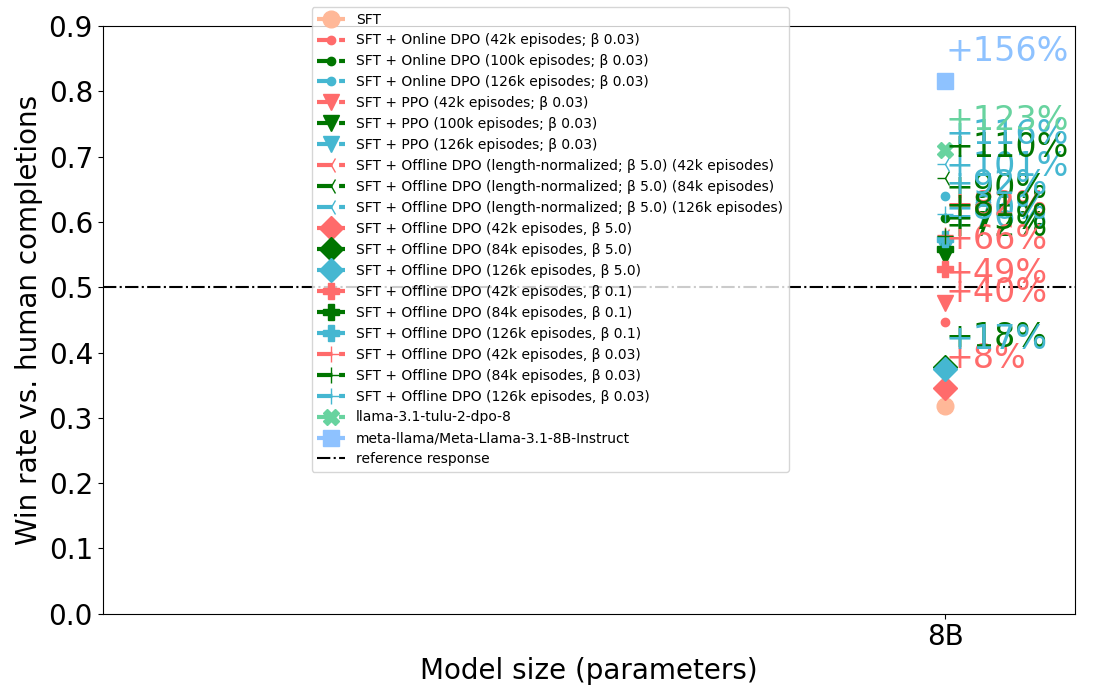
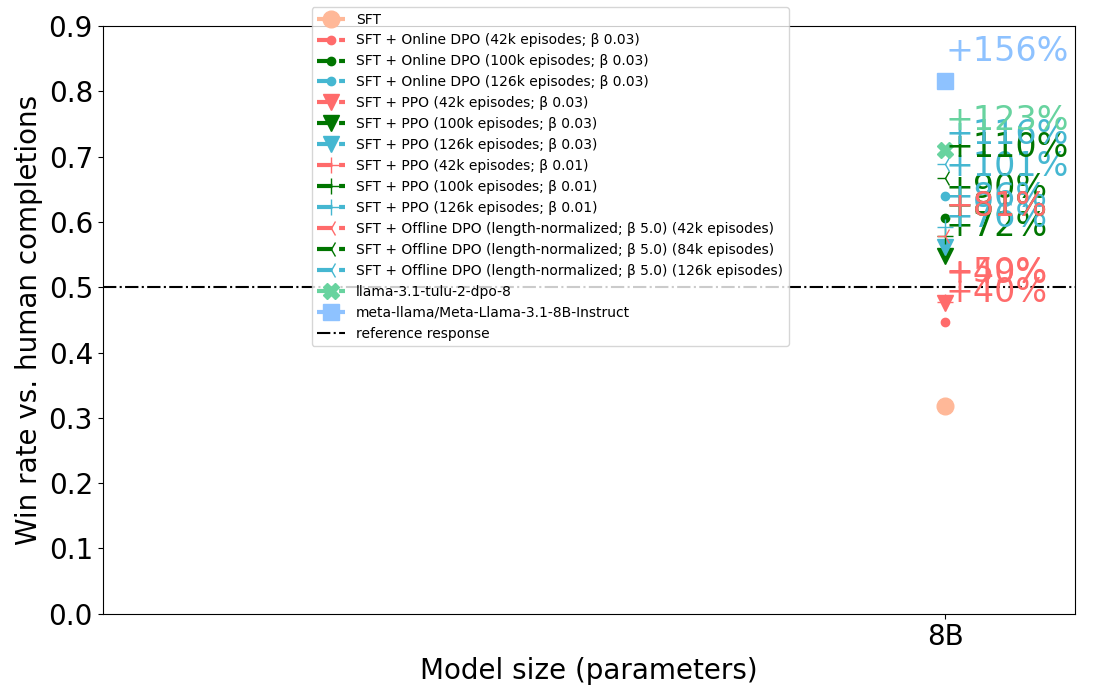
push changes

Changed region(s): [[0.2782, 0.21, 0.7109, 0.66], [0.8345, 0.24, 0.9582, 0.39], [0.8345, 0.45, 0.9582, 0.57]]

diff --git a/scripts/experimental/winrate/plot_winrate.py b/scripts/experimental/winrate/plot_winrate.py
@@ -20,18 +20,21 @@ results = {
     "SFT + PPO (42k episodes; β 0.03)": Data({8e9: [0.476, 222.886]}, "#FF6B6B", "v"),
     "SFT + PPO (100k episodes; β 0.03)": Data({8e9: [0.548, 233.058]}, "#007500", "v"),
     "SFT + PPO (126k episodes; β 0.03)": Data({8e9: [0.562, 226.956]}, "#45B7D1", "v"),
+    "SFT + PPO (42k episodes; β 0.01)": Data({8e9: [0.478, 264.274]}, "#FF6B6B", "+"),
+    "SFT + PPO (100k episodes; β 0.01)": Data({8e9: [ 0.578, 262.338]}, "#007500", "+"),
+    "SFT + PPO (126k episodes; β 0.01)": Data({8e9: [0.592, 264.802]}, "#45B7D1", "+"),
     "SFT + Offline DPO (length-normalized; β 5.0) (42k episodes)": Data({8e9: [0.578, 273.732]}, "#FF6B6B", "3"),
     "SFT + Offline DPO (length-normalized; β 5.0) (84k episodes)": Data({8e9: [0.668, 215.136]}, "#007500", "3"),
     "SFT + Offline DPO (length-normalized; β 5.0) (126k episodes)": Data({8e9: [0.688, 186.848]}, "#45B7D1", "3"),
-    "SFT + Offline DPO (42k episodes, β 5.0)": Data({8e9: [0.346, 209.43]}, "#FF6B6B", "D"),
-    "SFT + Offline DPO (84k episodes, β 5.0)": Data({8e9: [0.378, 208.1]}, "#007500", "D"),
-    "SFT + Offline DPO (126k episodes, β 5.0)": Data({8e9: [0.374, 223.876]}, "#45B7D1", "D"),
-    "SFT + Offline DPO (42k episodes, β 0.1)": Data({8e9: [0.528, 227.462]}, "#FF6B6B", "P"),
-    "SFT + Offline DPO (84k episodes, β 0.1)": Data({8e9: [0.558, 205.354]}, "#007500", "P"),
-    "SFT + Offline DPO (126k episodes, β 0.1)": Data({8e9: [0.574, 205.498]}, "#45B7D1", "P"),
-    "SFT + Offline DPO (42k episodes, β 0.03)": Data({8e9: [0.58, 206.512]}, "#FF6B6B", "+"),
-    "SFT + Offline DPO (84k episodes, β 0.03)": Data({8e9: [0.578, 207.07]}, "#007500", "+"),
-    "SFT + Offline DPO (126k episodes, β 0.03)": Data({8e9: [0.612, 204.078]}, "#45B7D1", "+"),
+    # "SFT + Offline DPO (42k episodes, β 5.0)": Data({8e9: [0.346, 209.43]}, "#FF6B6B", "D"),
+    # "SFT + Offline DPO (84k episodes, β 5.0)": Data({8e9: [0.378, 208.1]}, "#007500", "D"),
+    # "SFT + Offline DPO (126k episodes, β 5.0)": Data({8e9: [0.374, 223.876]}, "#45B7D1", "D"),
+    # "SFT + Offline DPO (42k episodes, β 0.1)": Data({8e9: [0.528, 227.462]}, "#FF6B6B", "P"),
+    # "SFT + Offline DPO (84k episodes, β 0.1)": Data({8e9: [0.558, 205.354]}, "#007500", "P"),
+    # "SFT + Offline DPO (126k episodes, β 0.1)": Data({8e9: [0.574, 205.498]}, "#45B7D1", "P"),
+    # "SFT + Offline DPO (42k episodes, β 0.03)": Data({8e9: [0.58, 206.512]}, "#FF6B6B", "+"),
+    # "SFT + Offline DPO (84k episodes, β 0.03)": Data({8e9: [0.578, 207.07]}, "#007500", "+"),
+    # "SFT + Offline DPO (126k episodes, β 0.03)": Data({8e9: [0.612, 204.078]}, "#45B7D1", "+"),
     "llama-3.1-tulu-2-dpo-8": Data({8e9: [0.71, 320.09]}, "#68D39F", "X"),
     "meta-llama/Meta-Llama-3.1-8B-Instruct": Data({8e9: [0.816, 309.322]}, "#8EC2FF", "s"),
 }

diff --git a/scripts/experimental/winrate/plot_agreement_rate.py b/scripts/experimental/winrate/plot_agreement_rate.py
@@ -7,21 +7,27 @@ methods = [
     'SFT + Online DPO (126k episodes)',
     'SFT + PPO (126k episodes)',
 ]
-rm1_rates = [45.20, 56.20, 59.60]  # vwxyzjn/reward_modeling__allenai_open_instruct_dev
-rm2_rates = [61.20, 64.00, 63.40]  # allenai/llama-3-tulu-2-8b-uf-mean-rm
+
+rm_rates = {
+    'vwxyzjn/reward_modeling__allenai_open_instruct_dev': [45.20, 56.20, 59.60],
+    'allenai/llama-3-tulu-2-8b-uf-mean-rm': [61.20, 64.00, 63.40],
+    "reward_modeling__1__1726175049": [63.00, 63.00, 58.40],
+}
 
 x = np.arange(len(methods))  # the label locations
-width = 0.35  # the width of the bars
+width = 0.25  # the width of the bars
 
 fig, ax = plt.subplots(figsize=(12, 6))
-rects1 = ax.bar(x - width/2, rm1_rates, width, label='vwxyzjn/reward_modeling__allenai_open_instruct_dev', color='skyblue')
-rects2 = ax.bar(x + width/2, rm2_rates, width, label='allenai/llama-3-tulu-2-8b-uf-mean-rm', color='lightgreen')
+axes = []
+for i, (rm, rates) in enumerate(rm_rates.items()):
+    rects = ax.bar(x + i * width, rates, width, label=rm)
+    axes.append(rects)
 
 # Add some text for labels, title and custom x-axis tick labels, etc.
 ax.set_ylabel('Agreement Rate (%)', fontsize=12)
 ax.set_title('Agreement Rates w/ GPT 4 judgement for Different Reward Models and Training Methods', fontsize=14)
-ax.set_xticks(x)
-ax.set_xticklabels(methods)
+ax.set_xticks(x + width)
+ax.set_xticklabels(methods, rotation=45, ha='right')
 ax.legend()
 
 ax.set_ylim(0, 100)  # Set y-axis limit from 0 to 100%
@@ -36,8 +42,8 @@ def autolabel(rects):
                     textcoords="offset points",
                     ha='center', va='bottom')
 
-autolabel(rects1)
-autolabel(rects2)
+for rects in axes:
+    autolabel(rects)
 
 fig.tight_layout()
 

diff --git a/scripts/experimental/winrate/measure_agreement_rate.py b/scripts/experimental/winrate/measure_agreement_rate.py
@@ -19,6 +19,13 @@ from open_instruct.model_utils import get_reward
 
 
 """
+# synthetic online RM
+python -i measure_agreement_rate.py \
+    --reward_model_path vwxyzjn/reward_modeling__allenai_open_instruct_dev \
+    --reward_model_revision reward_modeling__1__1725760619 \
+    --input_path csvs/allenai/open_instruct_dev_costa_offline_dpo_norobot_3pair_3peoch__allenai_open_instruct_dev__42__1726354080_judged.csv \
+    --n -1
+#   
 python -i measure_agreement_rate.py \
     --reward_model_path vwxyzjn/reward_modeling__allenai_open_instruct_dev \
     --reward_model_revision reward_modeling__1__1725760619 \

diff --git a/scripts/experimental/winrate/readme.md b/scripts/experimental/winrate/readme.md
@@ -246,6 +246,40 @@ python generate_and_eval.py \
 # Name: proportion, dtype: float64
 # df['model_response_len'].mean()=204.078
 
+# https://wandb.ai/ai2-llm/open_instruct_internal/runs/qzxfu3bi
+python generate_and_eval.py \
+    --model_name_or_path allenai/open_instruct_dev \
+    --model_revision ppo_vllm_thread_beta_0.01_episode_42000__3__1726693093 \
+    --n 500
+# preferred
+# response1    0.522
+# response0    0.478
+# Name: proportion, dtype: float64
+# df['model_response_len'].mean()=264.274
+
+https://wandb.ai/ai2-llm/open_instruct_internal/runs/l0tjy2w7
+python generate_and_eval.py \
+    --model_name_or_path allenai/open_instruct_dev \
+    --model_revision ppo_vllm_thread_beta_0.01_episode_84000__3__1726693099 \
+    --n 500
+# preferred
+# response0    0.578
+# response1    0.422
+# Name: proportion, dtype: float64
+# df['model_response_len'].mean()=262.338
+
+https://wandb.ai/ai2-llm/open_instruct_internal/runs/kmy7xdjv
+python generate_and_eval.py \
+    --model_name_or_path allenai/open_instruct_dev \
+    --model_revision ppo_vllm_thread_beta_0.01_episode_126000__3__1726693097 \
+    --n 500
+# preferred
+# response0    0.592
+# response1    0.408
+# Name: proportion, dtype: float64
+# df['model_response_len'].mean()=264.802
+
+
 python plot_winrate.py
 
 
@@ -315,4 +349,27 @@ python measure_agreement_rate.py \
     --input_path csvs/vwxyzjn/ppo_vllm_thread_beta_0.03_episode_126000__allenai_open_instruct_dev_ppo_vllm_thread_beta_0.03_episode_126000__3__1726543993_judged.csv \
     --n -1
 # count: 500, agreement_rate: 63.40%
+
+
+https://huggingface.co/vwxyzjn/reward_modeling__allenai_llama-3-tulu-2-8b/tree/reward_modeling__1__1726175049
+python measure_agreement_rate.py \
+    --reward_model_path vwxyzjn/reward_modeling__allenai_llama-3-tulu-2-8b \
+    --reward_model_revision reward_modeling__1__1726175049 \
+    --input_path csvs/allenai/open_instruct_dev_costa_offline_dpo_norobot_3pair_3peoch__allenai_open_instruct_dev__42__1726354080_judged.csv \
+    --n -1
+# count: 500, agreement_rate: 63.00%
+
+python measure_agreement_rate.py \
+    --reward_model_path vwxyzjn/reward_modeling__allenai_llama-3-tulu-2-8b \
+    --reward_model_revision reward_modeling__1__1726175049 \
+    --input_path csvs/vwxyzjn/online_dpo_vllm_thread_beta_0.03_episode_126000__allenai_open_instruct_dev_online_dpo_vllm_thread_beta_0.03_episode_126000__3__1726559254_judged.csv \
+    --n -1
+# count: 500, agreement_rate: 63.00%
+
+python measure_agreement_rate.py \
+    --reward_model_path vwxyzjn/reward_modeling__allenai_llama-3-tulu-2-8b \
+    --reward_model_revision reward_modeling__1__1726175049 \
+    --input_path csvs/vwxyzjn/ppo_vllm_thread_beta_0.03_episode_126000__allenai_open_instruct_dev_ppo_vllm_thread_beta_0.03_episode_126000__3__1726543993_judged.csv \
+    --n -1
+# count: 500, agreement_rate: 58.40%
 ```
